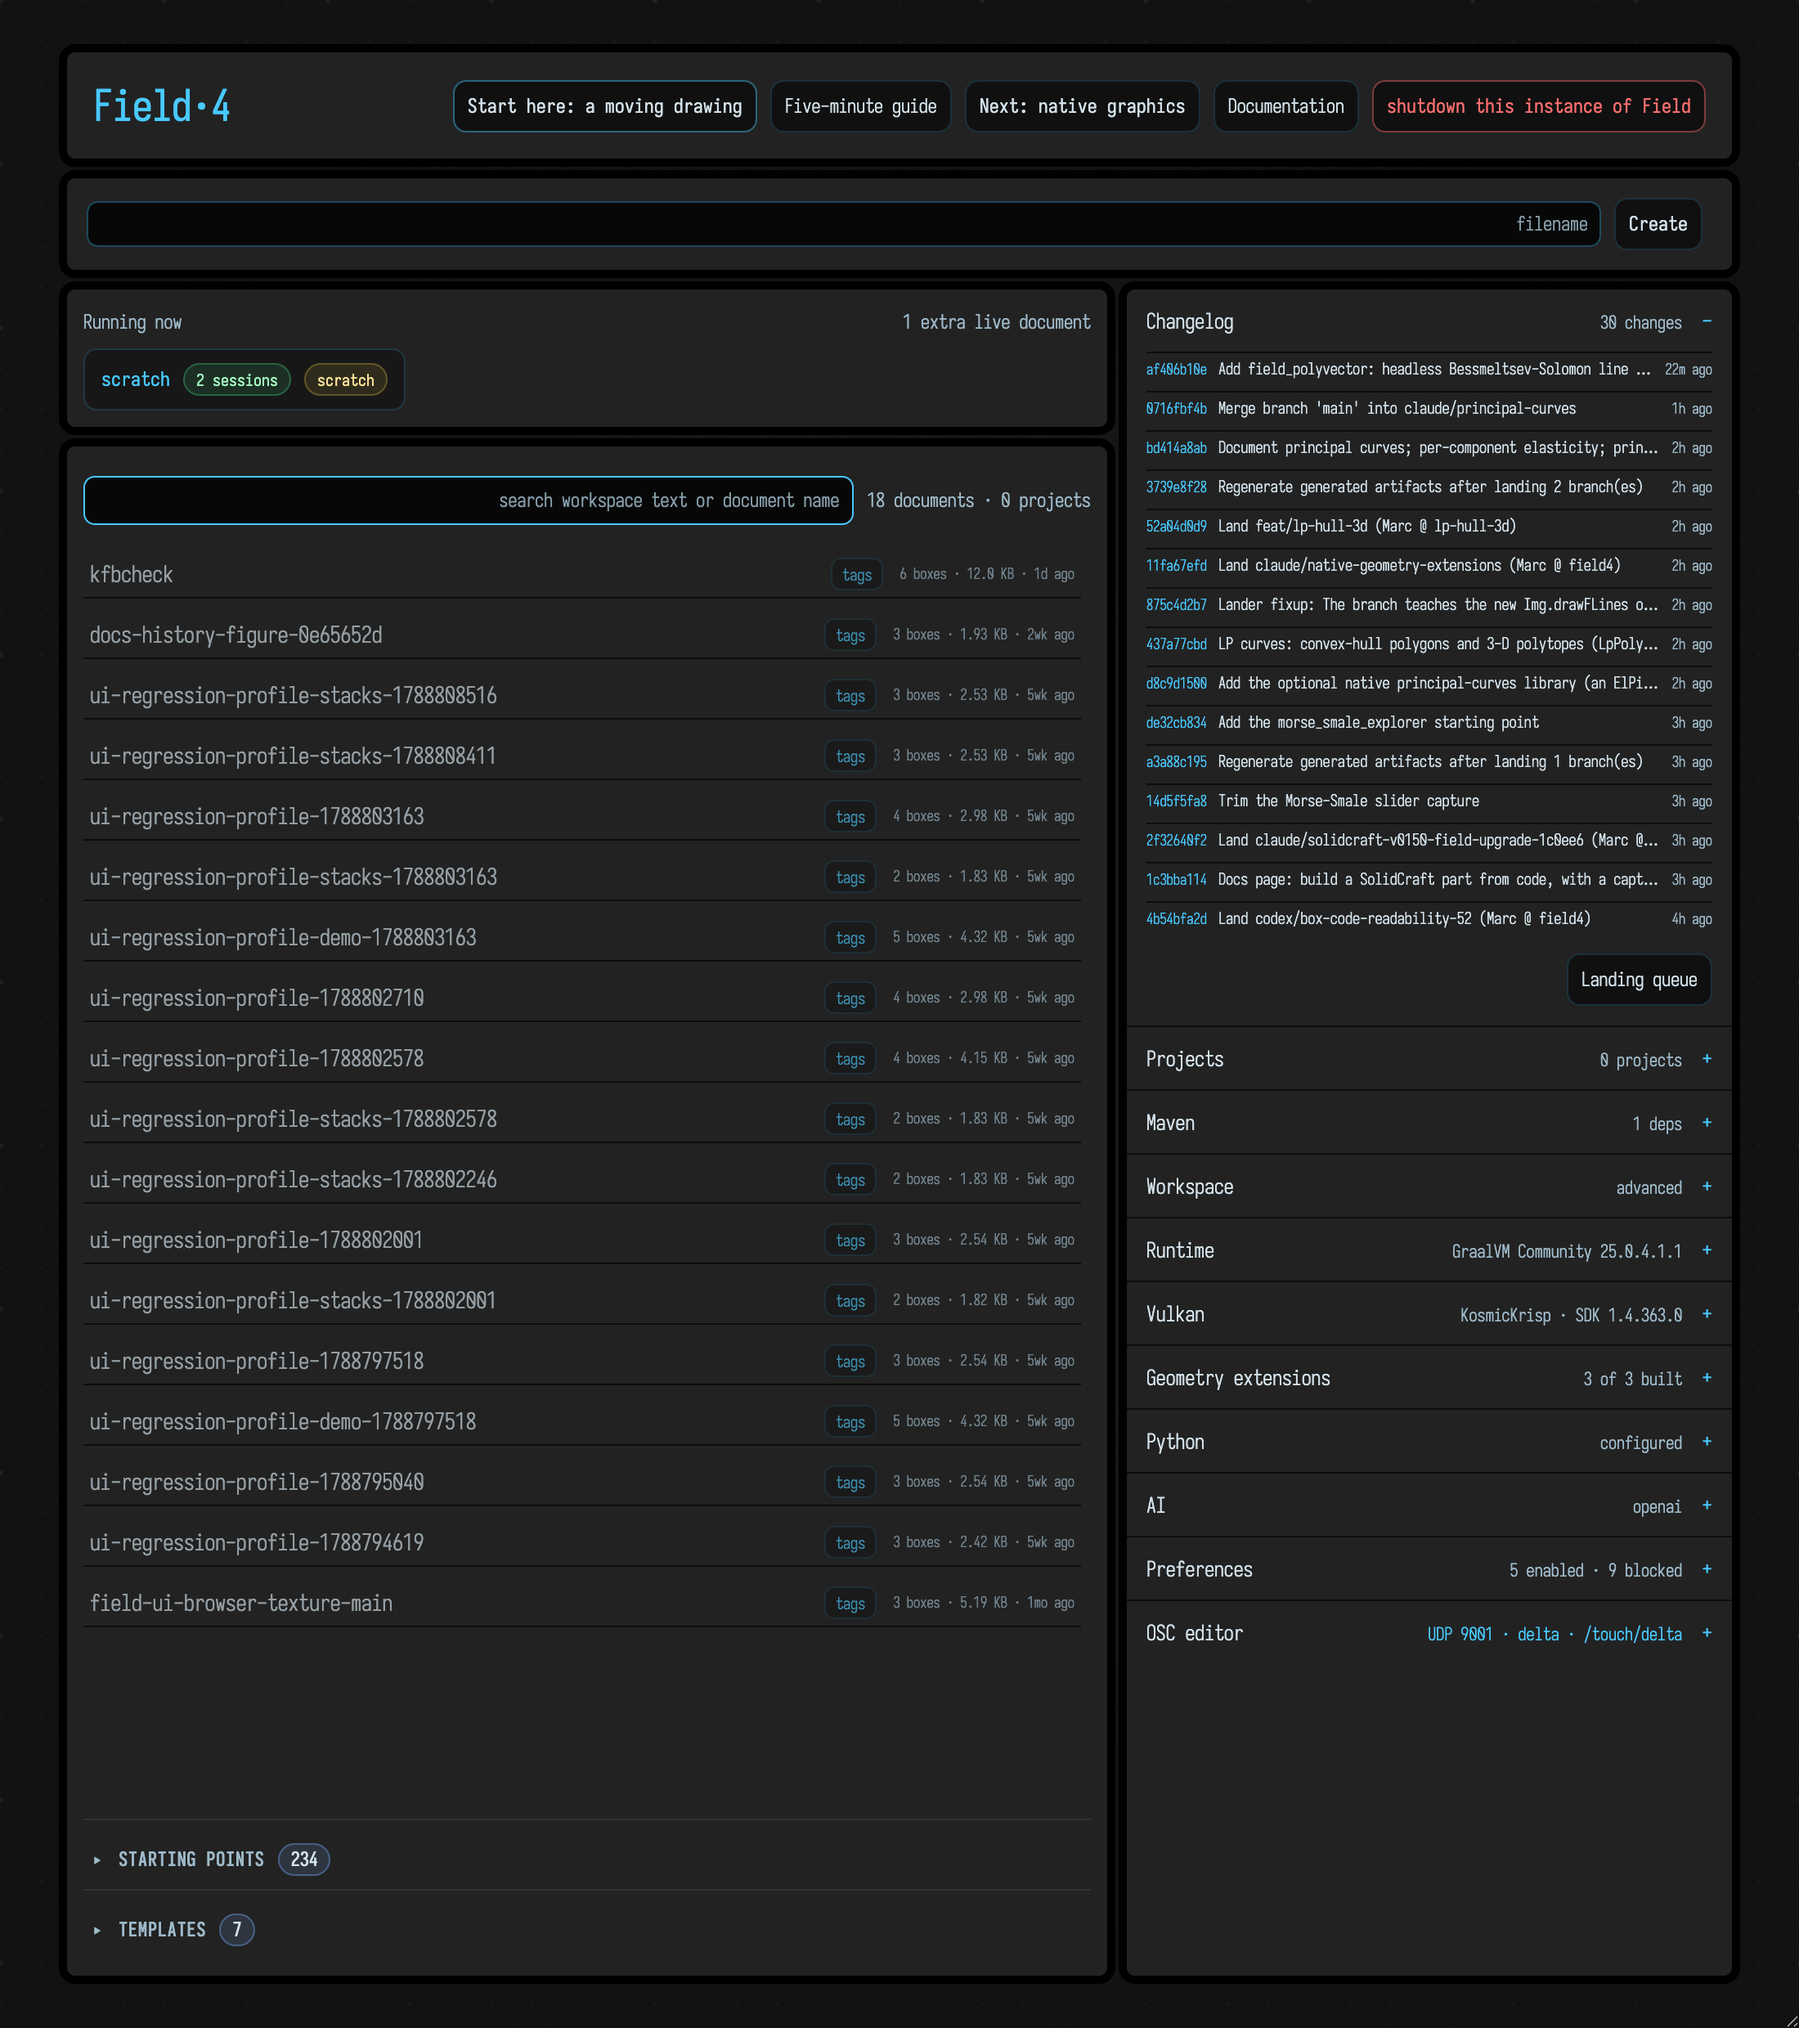
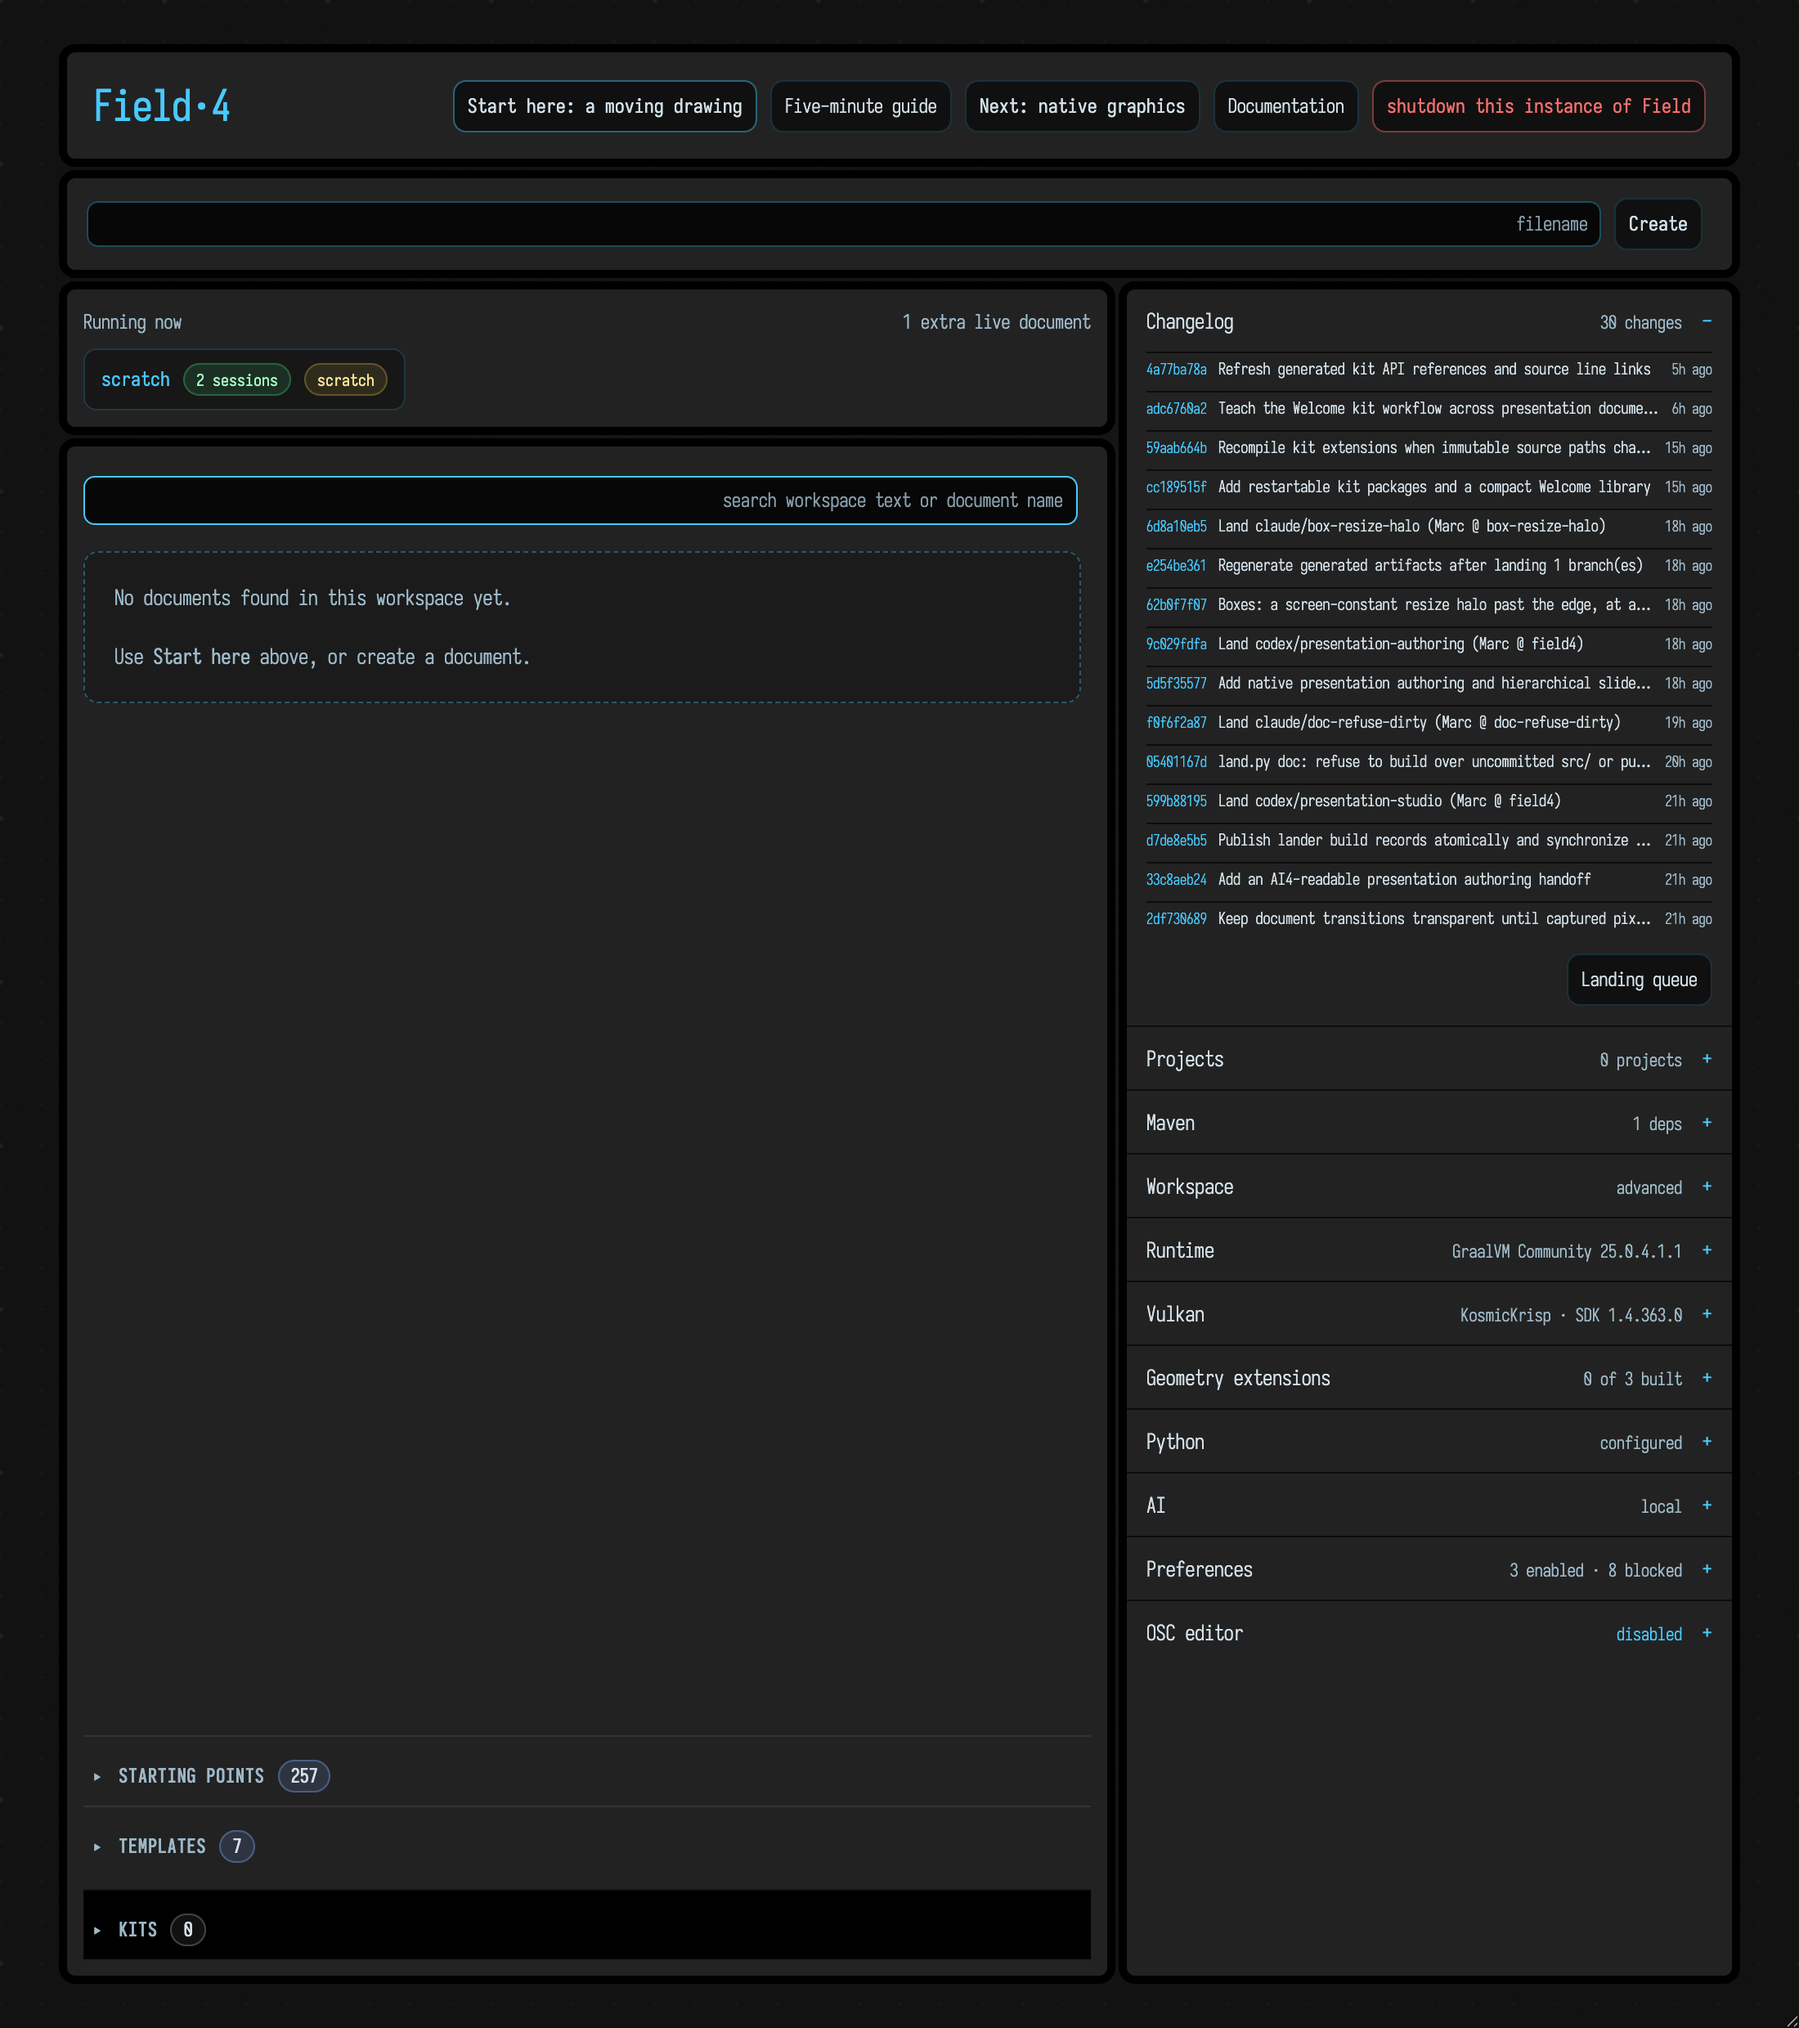
Refresh Welcome documentation capture with collapsed Kits library

diff --git a/src/commonMain/resources/welcome.html b/src/commonMain/resources/welcome.html
@@ -377,6 +377,13 @@
             line-height: 1.35;
         }
 
+        .ai-settings-hint {
+            margin: 6px 0;
+            color: var(--field-text-soft);
+            font-size: 12px;
+            line-height: 1.4;
+        }
+
         .ai-settings-models {
             display: grid;
             grid-template-columns: 1fr;

diff --git a/public/docs/installation.md b/public/docs/installation.md
@@ -161,7 +161,7 @@ The launcher then opens Field's desktop app. Press `?` for help, or consult the
 The first tab in the desktop app is the welcome page, also at `https://localhost:9092/welcome` in
 a browser:
 
-```diffstatic_runner {data-lang=kotlin capture="ui" region="window" viewport="1100x1260" clip-selector="#docs-welcome-frame" screenshot="assets/welcome/welcome-page.png" padding="0" wait="0" timeout="120" embed=true hidden=true name="welcome-page" alt="The welcome page. Across the top, Field·4 and buttons for Start here: a moving drawing, the five-minute guide, native graphics, documentation, and shutdown, then a filename box with Create. On the left, Running now, a search box and the workspace's documents, and the collapsed Starting points and Templates lists with their counts. On the right, the Changelog open on recent commits, and below it the collapsed Projects, Maven, Workspace, Runtime, Vulkan, Geometry extensions, Python, AI, Preferences and OSC panels with one-line summaries."}
+```diffstatic_runner {data-lang=kotlin capture="ui" region="window" viewport="1100x1260" clip-selector="#docs-welcome-frame" screenshot="assets/welcome/welcome-page.png" padding="0" wait="0" timeout="120" embed=true hidden=true name="welcome-page" alt="The welcome page. Across the top, Field·4 and buttons for Start here: a moving drawing, the five-minute guide, native graphics, documentation, and shutdown, then a filename box with Create. On the left, Running now, a search box and the workspace's documents, and the collapsed Starting points, Templates and Kits disclosures with their counts. On the right, the Changelog open on recent commits, and below it the collapsed Projects, Maven, Workspace, Runtime, Vulkan, Geometry extensions, Python, AI, Preferences and OSC panels with one-line summaries."}
 // The compact /welcome row and empty-workspace prompt point to Start here; /welcome is its own page, so it is loaded into a frame on the capture page at a desktop
 // window's size, against the runner's fresh checkout-local workspace: what a new user sees.
 ui.eval("""
@@ -189,6 +189,19 @@ for (i in 0 until 60) {
 }
 check(state.contains("ready")) { "the welcome page did not finish loading: " + state }
 ui.pause(1200)
+ui.eval("""
+    const f = document.getElementById("docs-welcome-frame")
+    const d = f.contentDocument
+    const kits = d.getElementById("kit-library")
+    if (kits?.tagName !== "DETAILS" || kits.open) throw new Error("Kits must be a collapsed disclosure")
+    const summary = kits.querySelector("summary")
+    const r = summary.getBoundingClientRect()
+    if (r.width <= 0 || r.top < 0 || r.bottom > f.clientHeight) throw new Error("Kits disclosure is outside the capture")
+    if (!summary.querySelector("[data-kit-count]")) throw new Error("Kits count is missing")
+    const response = await f.contentWindow.fetch("/api/kits", {cache: "no-store"})
+    if (!response.ok) throw new Error("Kit library failed to load: " + response.status)
+    return true
+""".trimIndent())
 ```
 
 The left side is your documents. Type a name into the box at the top and press **Create** to make
@@ -196,6 +209,10 @@ a new one; the search box above the list searches the text of every document in 
 well as their names. Below the list, **Starting points** and **Templates** are curated scenes and
 scaffolds; opening one gives you an editable copy in your workspace, which is the quickest way to
 see what Field does.
+
+The **Kits** disclosure below them adds reusable packages and their document starting points.
+Add a kit folder there; packages that add runtime code become available after a restart. See
+[Kits and Starting Points](kits.md#add-a-self-contained-kit-in-welcome) for installation and updates.
 
 The right side is a stack of collapsible panels, one per part of Field:
 

diff --git a/public/docs/funFeatures.md b/public/docs/funFeatures.md
@@ -6,9 +6,9 @@ Field aims to be full of unexpectedly fun features that help you interact with c
 
 The first page of Field is the welcome page: the first tab in our desktop app, and at `https://localhost:9092/welcome` in any web browser:
 
-![The welcome page in a fresh workspace: a document list with a search box and the Starting points and Templates lists on the left, the Changelog and a stack of collapsible panels on the right](assets/welcome/welcome-page.png)
+![The welcome page in a fresh workspace: a document list with a search box and the Starting points, Templates and Kits disclosures on the left, the Changelog and a stack of collapsible panels on the right](assets/welcome/welcome-page.png)
 
-On the left you can make new documents or find that document you just _know_ you edited last week; below the list are **Starting points** and **Templates**, curated scenes and scaffolds that open as an editable copy in your workspace. On the right is a stack of collapsible panels for the rest of Field: the changelog, projects, Maven dependencies, the workspace, the runtime, Vulkan and Python status, AI settings, preferences, and the OSC editor. The search box does full text search over the whole workspace:
+On the left you can make new documents or find that document you just _know_ you edited last week; below the list are **Starting points** and **Templates**, curated scenes and scaffolds that open as an editable copy in your workspace. **Kits** adds [reusable packages and their starting points](kits.md#add-a-self-contained-kit-in-welcome) in another disclosure. On the right is a stack of collapsible panels for the rest of Field: the changelog, projects, Maven dependencies, the workspace, the runtime, Vulkan and Python status, AI settings, preferences, and the OSC editor. The search box does full text search over the whole workspace:
 
 <video controls autoplay loop muted playsinline style="width: min(100%, 660px);">
 	<source src="assets/welcoming.mp4" type="video/mp4">

diff --git a/public/docs/history_overview.md b/public/docs/history_overview.md
@@ -21,7 +21,7 @@ Each keeps its own record, for its own length of time. The tools:
 
 The AI-facing history tools are launched and monitored from the **welcome page**, Field's landing page. The server opens `https://localhost:<port>/welcome` on startup, and in the desktop app it is the first tab (the `+` button opens a fresh one).
 
-![The welcome page in a fresh workspace: documents and starting points on the left, the Changelog and the collapsed panel stack, AI among them, on the right](assets/welcome/welcome-page.png)
+![The welcome page in a fresh workspace: documents and the Starting points, Templates and Kits disclosures on the left, the Changelog and the collapsed panel stack, AI among them, on the right](assets/welcome/welcome-page.png)
 
 You can also reach it at any time from the hero buttons of a running instance, or by navigating straight to `/welcome`.
 
